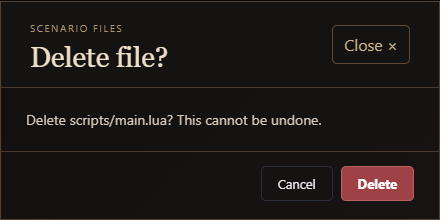
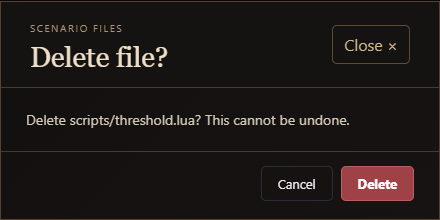
fix(author): protect required project files from deletion

Changed region(s): [[0.2659, 0.5182, 0.7977, 0.5727]]

diff --git a/tools/authoring-check.ts b/tools/authoring-check.ts
@@ -2,6 +2,7 @@ import { build } from "./build.ts";
 import { DIST } from "./paths.ts";
 import { serveStatic } from "./server.ts";
 import type { EditorHarness } from "../src/editor/harness.ts";
+import { removeEntry } from "../src/editor/tree.ts";
 import type { Browser, BrowserContext, Page } from "playwright-core";
 import { strToU8, zipSync } from "fflate";
 
@@ -59,6 +60,11 @@ async function waitFor(page: Page, selector: string, text: string): Promise<void
 
 async function main(): Promise<void> {
   console.log("== Inkforge authored tools/modal check ==");
+  const required = { "scenario.yaml": "entry", "scripts/main.lua": "entry", "scripts/extra.lua": "extra" };
+  assert(removeEntry(required, "file", "scenario.yaml").length === 0, "required scenario file was removed");
+  assert(removeEntry(required, "file", "scripts/main.lua").length === 0, "required Lua file was removed");
+  assert(removeEntry(required, "folder", "scripts").length === 0, "folder containing main.lua was removed");
+  assert(Object.keys(required).length === 3, "required entry guard mutated the VFS");
   await build();
   const server = serveStatic({ root: DIST, port: 0 });
   const browser = await launch();
@@ -163,6 +169,24 @@ async function main(): Promise<void> {
     await page.locator('#projectList [data-project="renderer-stage-showcase"] button:not([disabled])').first().click();
     await waitFor(page, "#storyTitle", "The authored visual stage");
     await page.locator('.nav[data-view="author"]').click();
+    for (
+      const selector of [
+        '.file-row:has(.file[data-file="scenario.yaml"]) .entry-delete',
+        '.file-row:has(.file[data-file="scripts/main.lua"]) .entry-delete',
+        '.folder[data-folder="scripts"] > .entry-delete',
+      ]
+    ) {
+      assert(await page.locator(selector).count() === 0, `required project entry has a delete control: ${selector}`);
+    }
+    await page.evaluate(() => {
+      const app = (globalThis as {
+        inkforgeApp?: { deleteExplorerEntry(kind: "file" | "folder", path: string): void };
+      }).inkforgeApp;
+      app?.deleteExplorerEntry("file", "scenario.yaml");
+      app?.deleteExplorerEntry("file", "scripts/main.lua");
+      app?.deleteExplorerEntry("folder", "scripts");
+    });
+    assert(!(await page.locator("#deleteOverlay").isVisible()), "required entry opened the delete dialog");
     assert(await page.locator('.file[data-file="assets/map.svg"]').count() === 1, "asset missing from Author tree");
     await page.locator('.file[data-file="assets/map.svg"]').click();
     assert(await page.locator("#assetPreview img").count() === 1, "image asset preview missing");

diff --git a/src/editor/editor.ts b/src/editor/editor.ts
@@ -1,7 +1,7 @@
 import type { AppContext } from "../app/context.ts";
 import { normalizeProject } from "../project/project.ts";
 import { badgeForLanguage, languageForPath } from "./language.ts";
-import { buildFileTree, folderPaths, type TreeEntry } from "./tree.ts";
+import { buildFileTree, containsRequiredFile, folderPaths, type TreeEntry } from "./tree.ts";
 
 /** The tab set the editor opens with, matching the original's two static tabs. */
 export const DEFAULT_OPEN_FILES: readonly string[] = ["scenario.yaml", "scripts/main.lua"];
@@ -44,8 +44,8 @@ function renderEntry(app: AppContext, entry: TreeEntry, depth: number): HTMLElem
     button.textContent = entry.name;
     button.style.paddingLeft = `${8 + depth * INDENT_PX}px`;
     button.onclick = () => app.switchFile(entry.path);
-    const remove = deleteButton(app, "file", entry.path);
-    row.append(button, remove);
+    row.append(button);
+    if (!containsRequiredFile("file", entry.path)) row.append(deleteButton(app, "file", entry.path));
     return [row];
   }
 
@@ -69,7 +69,8 @@ function renderEntry(app: AppContext, entry: TreeEntry, depth: number): HTMLElem
   add.textContent = "+";
   add.onclick = () => app.openCreateDialog(entry.path);
 
-  row.append(toggle, add, deleteButton(app, "folder", entry.path));
+  row.append(toggle, add);
+  if (!containsRequiredFile("folder", entry.path)) row.append(deleteButton(app, "folder", entry.path));
   if (!open) return [row];
   return [row, ...entry.children.flatMap((child) => renderEntry(app, child, depth + 1))];
 }

diff --git a/src/app/app.ts b/src/app/app.ts
@@ -39,7 +39,13 @@ import {
   syncEditor as syncEditorImpl,
 } from "../editor/editor.ts";
 import { createCodeEditor } from "../editor/codemirror.ts";
-import { createEntry as createEntryImpl, type CreateKind, type CreateResult, removeEntry } from "../editor/tree.ts";
+import {
+  containsRequiredFile,
+  createEntry as createEntryImpl,
+  type CreateKind,
+  type CreateResult,
+  removeEntry,
+} from "../editor/tree.ts";
 import { installEditorHarness } from "../editor/harness.ts";
 import { render as renderDom } from "../ui/render.ts";
 import { runToolAction as runToolActionImpl, runUiAction as runUiActionImpl } from "../ui/actions.ts";
@@ -506,6 +512,7 @@ export function createApp(): AppContext {
   }
 
   function deleteExplorerEntry(kind: "file" | "folder" | "asset", path: string): void {
+    if (kind !== "asset" && containsRequiredFile(kind, path)) return;
     const exists = kind === "asset"
       ? app.project.assets[path] !== undefined
       : kind === "file"
@@ -536,6 +543,7 @@ export function createApp(): AppContext {
     if (!pendingDelete) return;
     const { kind, path } = pendingDelete;
     cancelDeleteExplorerEntry();
+    if (kind !== "asset" && containsRequiredFile(kind, path)) return;
 
     if (kind === "asset") {
       delete app.project.assets[path];

diff --git a/src/editor/tree.ts b/src/editor/tree.ts
@@ -17,6 +17,15 @@ import { isAssetPath } from "../project/assets.ts";
 /** Reserved basename that records an empty folder's existence in the VFS. */
 export const FOLDER_MARKER = ".inkforge-dir";
 
+/** Deleting either entry point, or a folder containing one, would break the project. */
+const REQUIRED_FILES = ["scenario.yaml", "scripts/main.lua"] as const;
+
+export function containsRequiredFile(kind: "file" | "folder", path: string): boolean {
+  return kind === "file"
+    ? REQUIRED_FILES.some((required) => required === path)
+    : REQUIRED_FILES.some((required) => required.startsWith(`${path}/`));
+}
+
 /** The things the Author view can create. Assets arrive through the upload button. */
 export type CreateKind = "folder" | "yaml" | "lua";
 
@@ -233,6 +242,7 @@ export function createEntry(
 
 /** Remove a file or an entire folder subtree, retaining an empty parent folder. */
 export function removeEntry(vfs: Record<string, string>, kind: "file" | "folder", path: string): string[] {
+  if (containsRequiredFile(kind, path)) return [];
   const removed = kind === "file"
     ? (vfs[path] === undefined ? [] : [path])
     : Object.keys(vfs).filter((key) => key.startsWith(`${path}/`));

diff --git a/docs/authoring/README.md b/docs/authoring/README.md
@@ -63,6 +63,9 @@ The Author view's file tree is a real nested hierarchy. You can create folders a
 - **+** on any folder row opens the same dialog, scoped to that folder.
 - **×** at the end of a file, folder, or asset row opens a confirmation dialog. Deleting a folder also deletes everything inside it.
 
+The required `scenario.yaml` and `scripts/main.lua` files cannot be deleted. The `scripts` folder is protected because it
+contains `main.lua`; other files inside it can still be removed.
+
 The dialog validates names: no path separators, no leading dots, no duplicates, and files must use a supported extension
 (`.yaml`, `.yml`, or `.lua`). A name typed without an extension gets the default for the chosen type.
 

diff --git a/docs/authoring/project-format.md b/docs/authoring/project-format.md
@@ -18,6 +18,7 @@ you can rearrange freely, because `scenario.yaml` names what it imports.
 
 A project that is missing either file is rejected at import with
 `Package must include scenario.yaml and scripts/main.lua`.
+The Author explorer does not offer deletion for either file or for the `scripts` folder containing `main.lua`.
 
 ## `manifest.json`
 
